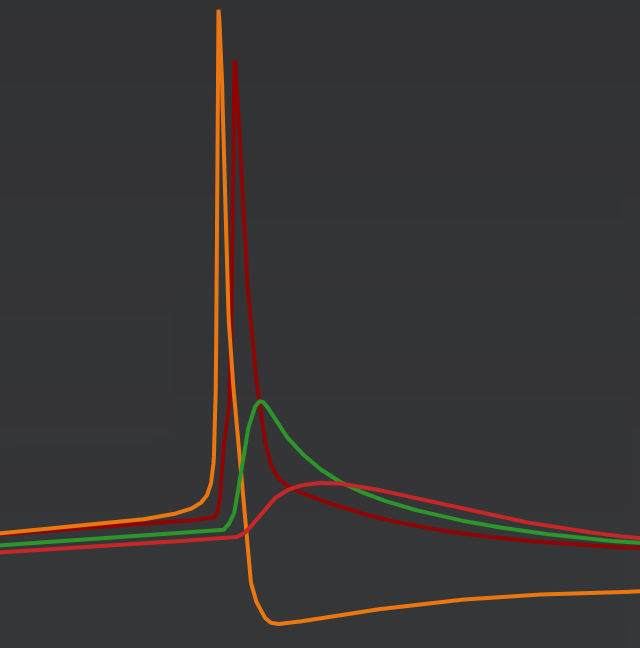
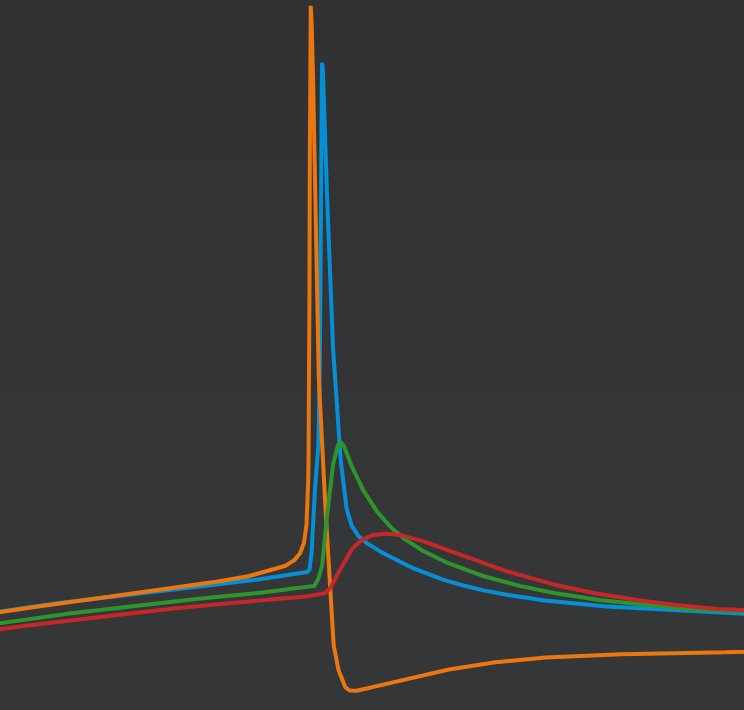
Text updates

Changed region(s): [[0.0, 0.0, 1.0, 0.9877]]

diff --git a/NeuroML2/osbSessions/10.html b/NeuroML2/osbSessions/10.html
@@ -4,24 +4,25 @@
     
     <p>A number of things can be seen from these traces:</p>
     
-    <p><strong>Not all parts of the cell have the same resting membrane potential</strong> <br/>
+    <p><strong>&nbsp;> Not all parts of the cell have the same resting membrane potential</strong> <br/>
         This is due to the different complement of ion channels in different parts of the cell
     </p>
     
-    <p><strong>The action potential initiates in the axon</strong> <br/>
-        <i class="fa fa-exclamation-circle" aria-hidden="true" style="color:#dd0000"></i> Zoom in on the first spike (left click on the plot and select the area around the spike), 
-        as shown below. The orange trace for the axon clearly peaks before the red of the soma.
+    <p><strong>&nbsp;> The action potential initiates in the axon</strong> <br/>
+        <i class="fa fa-exclamation-circle" aria-hidden="true" style="color:#dd0000"></i> Zoom in on the first spike, 
+        as shown below
+        (left click on the plot and select the area around the spike). The orange trace for the axon clearly peaks before the blue of the soma (colors may differ in your plot).
     </p>
     
     <p><img src="https://raw.githubusercontent.com/OpenSourceBrain/L23PyramidalCellTutorial/master/NeuroML2/osbSessions/FirstSpike.png" alt="missing..." width="200"/></p>
     
-    <p><strong>The action potential at the axon is narrow</strong> <br/>
+    <p><strong>&nbsp;> The action potential at the axon is narrow</strong> <br/>
         The high concentration of fast Na<sup>+</sup> channels (leading to strong depolarization) and rapidly activating K<sup>+</sup> channels 
         (quickly repolarizing the axon towards the reversal potential for K<sup>+</sup>, -85mV), causes a narrow AP at the axon.
     </p>
     
-    <p><strong>The action potential backpropagates into the dendrite</strong> <br/>
-        It is however quite attenuated when it reaches the apical dendrite tip.
+    <p><strong>&nbsp;> The action potential backpropagates into the dendrite</strong> <br/>
+        It is however quite attenuated when it reaches the apical dendrite tip (red trace above).
     </p>
         
     

diff --git a/NeuroML2/osbSessions/12.html b/NeuroML2/osbSessions/12.html
@@ -4,6 +4,6 @@
     
     <p>Once you have added all of the traces, clicking outside of the <strong style="color:#ff5a02">Control Panel</strong> will close it.
         
-    <p>It can be opened again using the <i class="fa fa-list" aria-hidden="true" style="color:#dd0000"></i> button on the left hand side of the main screen.</p>
+    <p>It can be opened again using the <i class="fa fa-list" aria-hidden="true" style="color:#ff5a02"></i> button on the left hand side of the main screen.</p>
     
 </div>
